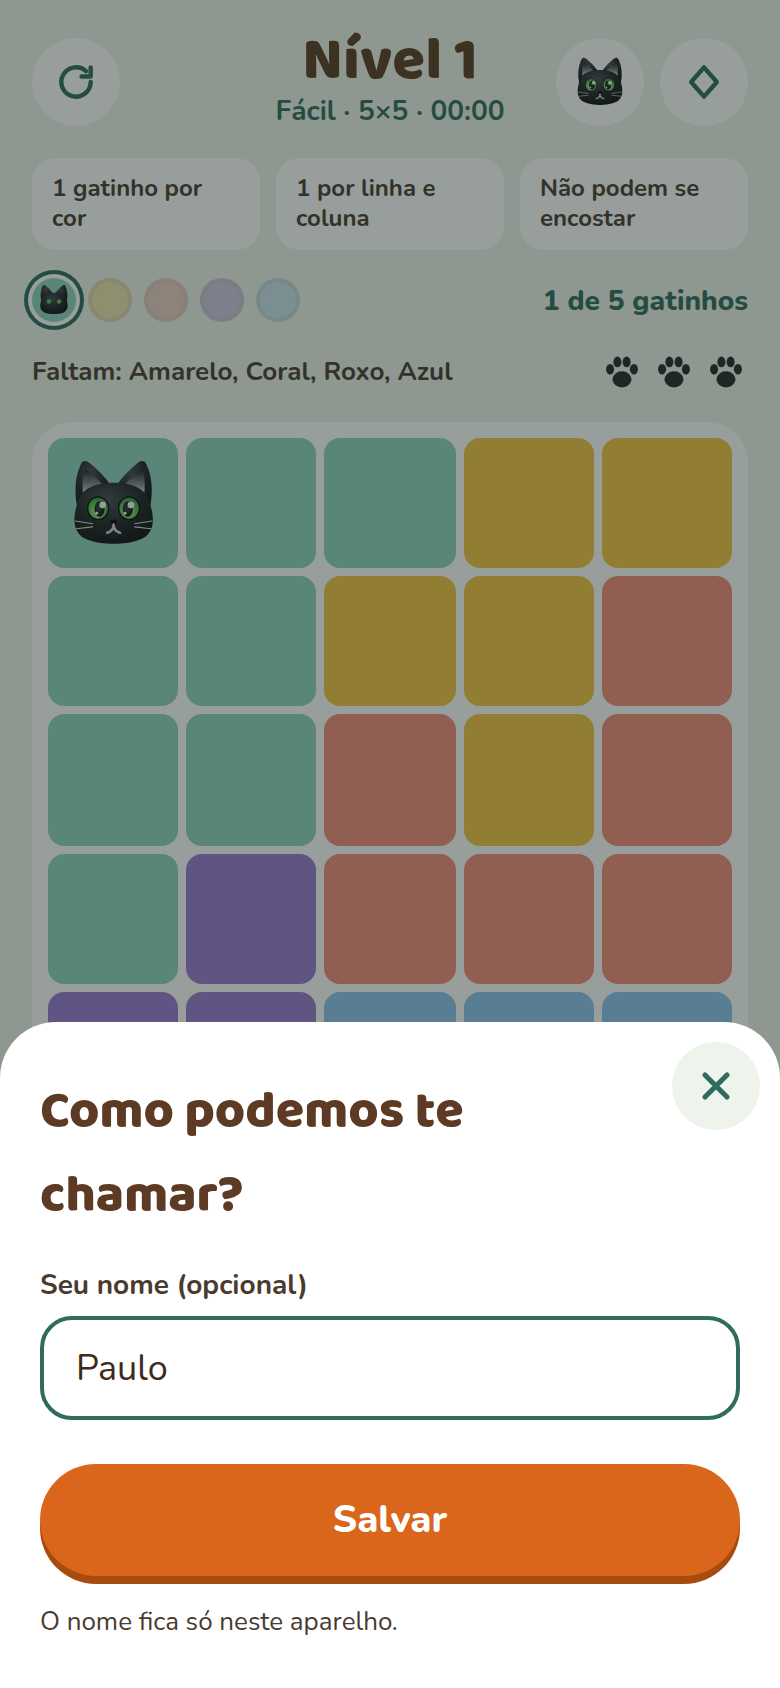
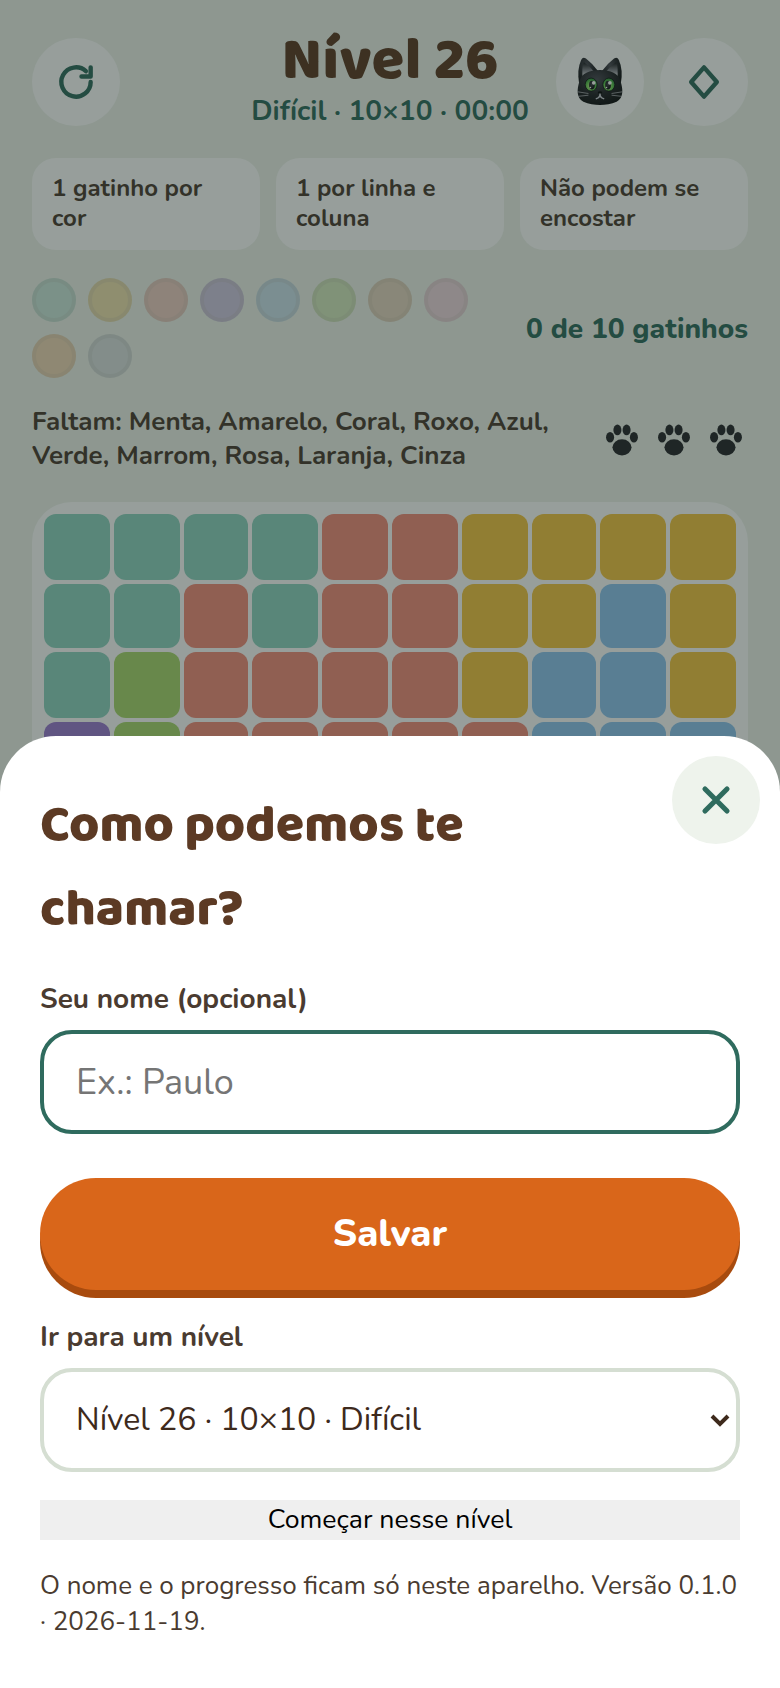
Atualização discreta do PWA, ir direto para um nível (?nivel=N e folha do perfil) e README

diff --git a/src/ui/main.ts b/src/ui/main.ts
@@ -4,9 +4,10 @@ import { FIXED_LEVELS } from '../core/levels';
 import { requestLevel } from '../core/levelClient';
 import { COLOR_HEX, COLOR_NAMES, COLOR_SYMBOLS } from '../core/messages';
 import { DIFFICULTY_LABEL, specForLevel } from '../core/progression';
-import { loadProgress, MAX_NAME, recordCompletion, saveProgress, setName, skipLevel, type Progress } from '../core/progress';
+import { jumpTo, loadProgress, MAX_NAME, parseLevelParam, recordCompletion, saveProgress, setName, skipLevel, type Progress } from '../core/progress';
 import { load, save, type KV } from '../core/storage';
 import type { Puzzle } from '../core/types';
+import { setupUpdates } from './pwa';
 import { catCheer, catDot, catFace, catHint, catSad } from './cat';
 
 const $ = <T extends HTMLElement>(id: string) => document.getElementById(id) as T;
@@ -25,6 +26,8 @@ let winClosed = false;
 let lostClosed = false;
 let sheetKind: 'powers' | 'profile' | null = null;
 let confirming = false;
+/** degraus oferecidos em "Ir para um nível" (começa de onde quiser, ex.: já nos 10×10) */
+const JUMPS = [1, 6, 11, 16, 21, 26, 31, 41, 61];
 let breakIdx = -1;
 let progress: Progress = loadProgress(kv);
 
@@ -124,7 +127,9 @@ function render(): void {
     sheet.innerHTML = `<div class="panel" role="dialog" aria-modal="true" aria-label="Seu nome"><button id="closeSheet" class="close" aria-label="Fechar">${CLOSE_SVG}</button><h2>Como podemos te chamar?</h2>
       <label class="field"><span>Seu nome (opcional)</span><input id="nameInput" type="text" maxlength="${MAX_NAME}" autocomplete="nickname" autocapitalize="words" value="${progress.name.replace(/"/g, '&quot;')}" placeholder="Ex.: Paulo" /></label>
       <button id="saveName" class="cta">Salvar</button>
-      <p class="sheet-note">O nome fica só neste aparelho.</p></div>`;
+      <label class="field"><span>Ir para um nível</span><select id="jumpSel">${JUMPS.map((k) => { const sp = specForLevel(k); return `<option value="${k}" ${k === level ? 'selected' : ''}>Nível ${k} · ${sp.size}×${sp.size} · ${DIFFICULTY_LABEL[sp.difficulty]}</option>`; }).join('')}</select></label>
+      <button id="jumpBtn" class="ghost">Começar nesse nível</button>
+      <p class="sheet-note">O nome e o progresso ficam só neste aparelho. Versão ${__APP_VERSION__}.</p></div>`;
   } else sheet.hidden = true;
 
   const ov = $('overlay');
@@ -289,6 +294,13 @@ document.addEventListener('click', (e) => {
   else if (id === 'powersBtn') { sheetKind = 'powers'; render(); }
   else if (id === 'profileBtn') { sheetKind = 'profile'; render(); (document.getElementById('nameInput') as HTMLInputElement | null)?.focus(); }
   else if (id === 'closeSheet') { sheetKind = null; render(); }
+  else if (id === 'jumpBtn') {
+    const k = Number((document.getElementById('jumpSel') as HTMLSelectElement).value);
+    progress = jumpTo(progress, k);
+    saveProgress(kv, progress);
+    sheetKind = null;
+    void startLevel(k);
+  }
   else if (id === 'saveName') {
     progress = setName(progress, (document.getElementById('nameInput') as HTMLInputElement).value);
     saveProgress(kv, progress);
@@ -308,12 +320,23 @@ setInterval(() => {
   if (game && !game.won && !loading) $('sub').textContent = `${game.puzzle.difficulty ? DIFFICULTY_LABEL[game.puzzle.difficulty] : 'Fixa'} · ${game.puzzle.size}×${game.puzzle.size} · ${fmt(elapsedMs(game))}`;
 }, 1000);
 
-const saved = load(kv);
-if (saved) {
-  level = saved.level;
-  symbols = saved.symbols;
-  game = saved.game;
-  winClosed = false;
-  lostClosed = false;
-  render();
-} else void startLevel(progress.maxLevel);
+setupUpdates();
+
+// ?nivel=26 abre direto nesse nível (ex.: https://…/gatinhos/?nivel=26 para já cair nos 10×10)
+const wanted = parseLevelParam(location.search);
+if (wanted !== null) {
+  progress = jumpTo(progress, wanted);
+  saveProgress(kv, progress);
+  history.replaceState(null, '', location.pathname);
+  void startLevel(wanted);
+} else {
+  const saved = load(kv);
+  if (saved) {
+    level = saved.level;
+    symbols = saved.symbols;
+    game = saved.game;
+    winClosed = false;
+    lostClosed = false;
+    render();
+  } else void startLevel(progress.maxLevel);
+}

diff --git a/src/ui/style.css b/src/ui/style.css
@@ -74,7 +74,7 @@ button:disabled { opacity: .5; cursor: default; }
 @media (prefers-reduced-motion: reduce) { * { animation-duration: .01ms !important; transition: none !important; } }
 
 .close { position: absolute; top: 10px; right: 10px; width: 44px; height: 44px; border-radius: 22px; background: var(--lagoa); display: flex; align-items: center; justify-content: center; padding: 0; }
-.card .ghost { width: 100%; height: 48px; border-radius: 24px; background: transparent; color: var(--mata); font-size: 16px; font-weight: 800; }
+.ghost { width: 100%; height: 48px; border-radius: 24px; background: transparent; color: var(--mata); font-size: 16px; font-weight: 800; }
 .cta { margin-top: 8px; width: 100%; height: 56px; border-radius: 28px; background: var(--tangerina); color: #fff; font-size: 19px; font-weight: 800; box-shadow: 0 4px 0 #a84b0e; }
 .cell.armed { box-shadow: inset 0 0 0 3px #fff; }
 
@@ -138,3 +138,4 @@ button:disabled { opacity: .5; cursor: default; }
 #app.ended #board { opacity: .55; filter: grayscale(.5); pointer-events: none; }
 #app.ended .tip { display: none; }
 .bar[hidden] { display: none; }
+.field select { height: 52px; border-radius: 16px; border: 2px solid #d5ded2; background: #fff; font-family: inherit; font-size: 16px; padding: 0 12px; color: var(--texto); }

diff --git a/src/ui/pwa.ts b/src/ui/pwa.ts
@@ -1,0 +1,26 @@
+import { registerSW } from 'virtual:pwa-register';
+
+/**
+ * Atualização discreta do PWA:
+ *  - o navegador baixa a versão nova em segundo plano (ao abrir, ao voltar para o app e de hora em hora);
+ *  - ela só entra em uso quando o app vai para segundo plano (ou na próxima abertura), sem recarregar a partida;
+ *  - o progresso e a partida ficam no aparelho (localStorage) e continuam valendo.
+ */
+export function setupUpdates(): void {
+  let needRefresh = false;
+  const updateSW = registerSW({
+    immediate: true,
+    onNeedRefresh() {
+      needRefresh = true;
+    },
+    onRegisteredSW(_url, reg) {
+      if (!reg) return;
+      const check = () => void reg.update().catch(() => undefined);
+      setInterval(check, 60 * 60 * 1000);
+      document.addEventListener('visibilitychange', () => {
+        if (document.visibilityState === 'hidden' && needRefresh) void updateSW(true);
+        else if (document.visibilityState === 'visible') check();
+      });
+    },
+  });
+}

diff --git a/tests/progress.test.ts b/tests/progress.test.ts
@@ -173,3 +173,20 @@ describe('nome do jogador', () => {
     expect(loadProgress(kv).name).toBe('');
   });
 });
+
+describe('começar de um nível avançado', () => {
+  it('?nivel=N só aceita 1–999', async () => {
+    const { parseLevelParam } = await import('../src/core/progress');
+    expect(parseLevelParam('?nivel=26')).toBe(26);
+    expect(parseLevelParam('?x=1&nivel=7')).toBe(7);
+    for (const bad of ['', '?nivel=0', '?nivel=-3', '?nivel=abc', '?nivel=1000', '?nivel=2.5', '?nivel=']) expect(parseLevelParam(bad)).toBeNull();
+  });
+  it('pular para um nível muda o ponto de retomada (também para trás)', async () => {
+    const { jumpTo } = await import('../src/core/progress');
+    let p = recordCompletion(defaultProgress(), 1, 1000);
+    p = jumpTo(p, 26);
+    expect(p.maxLevel).toBe(26);
+    expect(p.completed).toBe(1);
+    expect(jumpTo(p, 1).maxLevel).toBe(1);
+  });
+});

diff --git a/vite.config.ts b/vite.config.ts
@@ -3,12 +3,19 @@ import { defineConfig } from 'vite';
 import { VitePWA } from 'vite-plugin-pwa';
 import { manifest } from './src/manifest.ts';
 
+import pkg from './package.json' with { type: 'json' };
+
+const buildDate = new Date().toISOString().slice(0, 10);
+
 export default defineConfig({
+  define: { __APP_VERSION__: JSON.stringify(`${pkg.version} · ${buildDate}`) },
   base: '/gatinhos/',
   worker: { format: 'es' },
   plugins: [
     VitePWA({
-      registerType: 'autoUpdate',
+      // 'prompt': a versão nova é baixada em segundo plano e só entra em uso quando o app vai para segundo plano
+      // ou na próxima abertura (nunca recarrega no meio de uma partida). Ver src/ui/pwa.ts.
+      registerType: 'prompt',
       includeAssets: ['icon.svg'],
       // inclui o Worker do gerador no cache offline
       workbox: {

diff --git a/src/core/progress.ts b/src/core/progress.ts
@@ -69,3 +69,16 @@ export function setName(p: Progress, raw: string): Progress {
 export function skipLevel(p: Progress, level: number): Progress {
   return { ...p, maxLevel: Math.max(p.maxLevel, level + 1) };
 }
+
+/** Ir direto para um nível (ex.: começar já nos 10×10): o ponto de retomada passa a ser esse nível. */
+export function jumpTo(p: Progress, level: number): Progress {
+  return { ...p, maxLevel: Math.max(1, Math.floor(level)) };
+}
+
+/** Lê `?nivel=26` do endereço (1–999). Qualquer outra coisa é ignorada. */
+export function parseLevelParam(search: string): number | null {
+  const raw = new URLSearchParams(search).get('nivel');
+  if (raw === null || !/^\d{1,3}$/.test(raw)) return null;
+  const n = Number(raw);
+  return n >= 1 ? n : null;
+}

diff --git a/src/vite-env.d.ts b/src/vite-env.d.ts
@@ -1,0 +1,4 @@
+/// <reference types="vite/client" />
+/// <reference types="vite-plugin-pwa/client" />
+
+declare const __APP_VERSION__: string;

diff --git a/README.md b/README.md
@@ -66,6 +66,14 @@ O botão **✨** abre os poderes. Por enquanto existe o **Revelar gatinho**: mos
 - **Gatinho de brinde:** nas dificuldades altas (a partir do nível 21) o nível pode já começar com 1 gatinho revelado, marcado com contorno tracejado. A chance é 50% nos níveis 21–30, 60% nos 31–40 e cai 15 pontos a cada 10 níveis, chegando a 0 no nível 71 — um empurrãozinho que some conforme você evolui. O sorteio é fixo por nível (igual em qualquer aparelho).
 - **Salvo no seu aparelho:** o nível atual, a partida em andamento, o seu nome, níveis concluídos e melhores tempos ficam no `localStorage` do navegador. Cada aparelho tem o próprio progresso, sem conta nem servidor.
 
+## 🔄 Atualizações e começar de onde quiser
+
+- **O app se atualiza sozinho, sem aviso na tela.** Ele procura versão nova ao abrir, ao voltar para o app e de hora em hora. A versão nova é baixada em segundo plano e só passa a valer quando você sai do app (ou na próxima abertura) — nunca recarrega no meio de uma partida. Seu nome, progresso e partida em andamento ficam no aparelho e continuam valendo. A versão instalada aparece, discreta, no rodapé da folha do seu nome.
+- **Você não precisa começar do zero.** Duas formas de ir direto para um nível avançado (por exemplo, já nos 10×10):
+  - abra o jogo com `?nivel=26`, por exemplo `https://paulokmatos.github.io/gatinhos/?nivel=26` (os níveis 26–30 já são 10×10; do 31 em diante quase tudo é 10×10, e a partir do 41 é Expert);
+  - ou toque no círculo do seu nome → **Ir para um nível** → **Começar nesse nível**.
+  O app passa a retomar desse nível. Você pode voltar a qualquer nível da mesma forma.
+
 ## 💡 3 dicas para começar
 
 1. **Comece pelas cores pequenas.** Uma cor com poucas casas (ou numa linha/coluna só) tem pouquíssimos lugares possíveis para o gatinho.

diff --git a/docs/GLOSSARIO.md b/docs/GLOSSARIO.md
@@ -43,6 +43,7 @@ Regras gerais: tratamento neutro e direto ("você"), frases curtas, verbos no im
 
 | Escolher como ser chamado | — | **Seu nome** (opcional, só neste aparelho) | login, conta, perfil | Círculo ao lado de Símbolos. |
 | Confirmar recomeço | — | **Recomeçar nível?** — "Recomeçar" / "Cancelar" | tem certeza?, OK | Não regera o tabuleiro. |
+| Começar de outro nível | — | **Ir para um nível** / **Começar nesse nível** (e `?nivel=N`) | pular, fast-forward | Fica na folha do seu nome. |
 
 ## Ajuda
 
